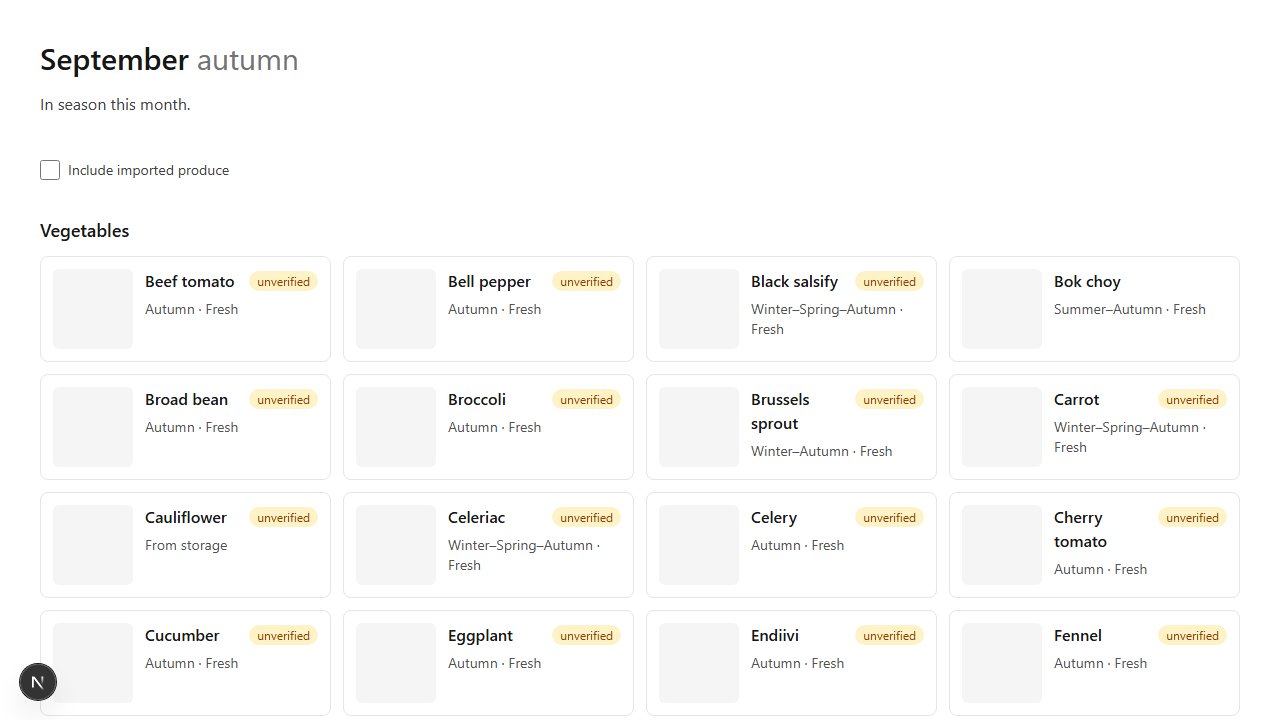
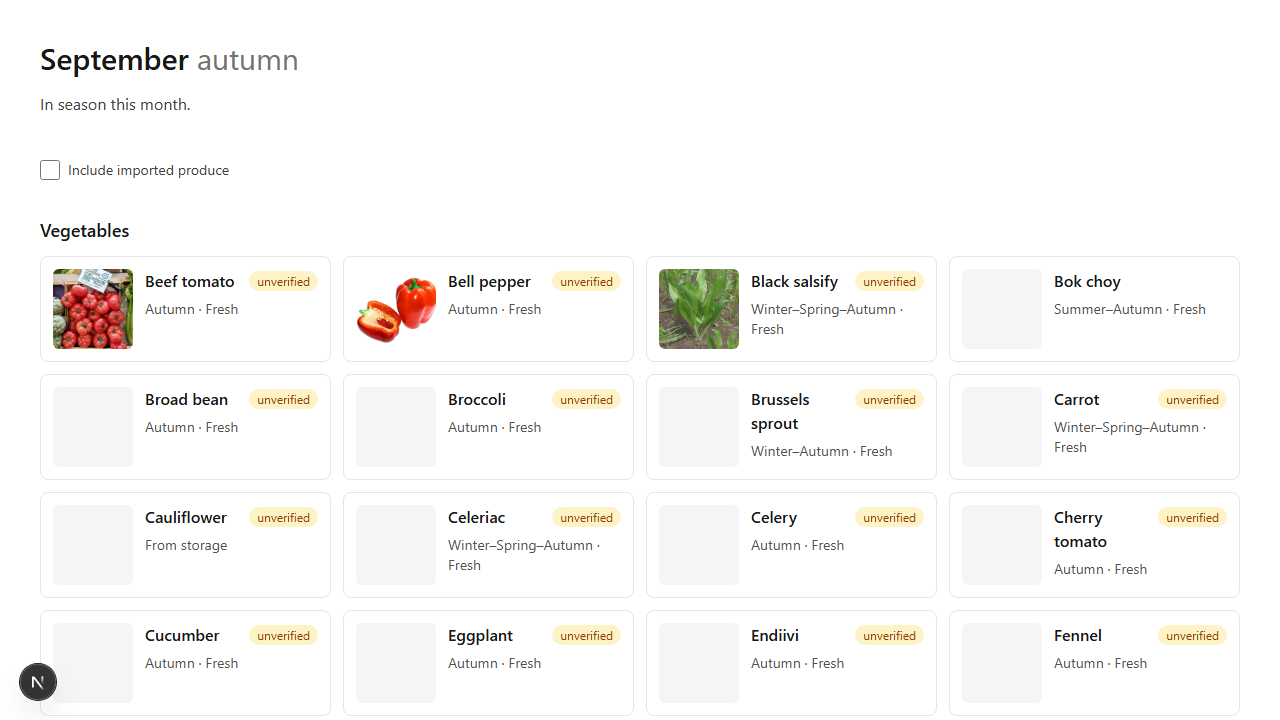
Show the first nine approved photos on the cards (issue 010, part way)
Downloads the nine photos Tia approved from the contact sheet on 2026-09-11,
which had been sitting as decisions with nothing acting on them, and records
each one's author, licence and source URL on its ingredient. The credits page
lists them instead of saying "No photos yet".

Also makes the card able to show a photo at all. HomeIngredient had no image
field, so an approved photo would still have rendered as a grey square. The
placeholder stays for the ~87 ingredients still undecided, so the layout does
not move as photos arrive.

One thing this caught: download-approved.mjs writes `file` as a root-relative
URL, "/images/ingredients/apple.jpg", while lib/types.ts and docs/PLAN.md both
described it as a bare filename. Nothing had ever rendered an image, so the
contradiction was invisible, and the first version of the card built the path a
second time and broke every photo. The script's format wins, being what is in
the data and what a src wants; the type and the plan now say so.

Issue 010 keeps its unticked boxes and gains a note on where to resume. Two of
the nine are worth repicking: beef-tomato is a market stall with a price sign,
and black-salsify shows foliage rather than the root. Both read fine on the
contact sheet at full size and poorly at 64 pixels, which is the size that
matters.

Changed region(s): [[0.5, 0.3667, 0.5938, 0.4889], [0.0312, 0.3667, 0.125, 0.4889], [0.2812, 0.3667, 0.3438, 0.4889]]

diff --git a/components/ProduceGrid.tsx b/components/ProduceGrid.tsx
@@ -133,7 +133,19 @@ function IngredientCard({
           to carry the season facts; the photo is how you recognise the
           ingredient without reading, which a small square does as well as a
           large one and in a third of the height. */}
-      <div className="h-16 w-16 shrink-0 rounded-md bg-neutral-100 sm:h-20 sm:w-20" aria-hidden />
+      {ingredient.image ? (
+        // eslint-disable-next-line @next/next/no-img-element -- a fixed-size local
+        // thumbnail, already downloaded at card width; next/image would add a
+        // round trip and a config for no gain.
+        <img
+          src={ingredient.image.file}
+          alt=""
+          loading="lazy"
+          className="h-16 w-16 shrink-0 rounded-md bg-neutral-100 object-cover sm:h-20 sm:w-20"
+        />
+      ) : (
+        <div className="h-16 w-16 shrink-0 rounded-md bg-neutral-100 sm:h-20 sm:w-20" aria-hidden />
+      )}
       <div className="min-w-0 flex-1">
         <div className="flex items-start justify-between gap-2">
           <span className="font-medium">{ingredient.name}</span>

diff --git a/app/page.tsx b/app/page.tsx
@@ -46,6 +46,13 @@ export default function HomePage() {
     freshMonths: ingredient.availability.domestic?.freshMonths ?? [],
     storageMonths: ingredient.availability.domestic?.storageMonths ?? [],
     importedMonths: ingredient.availability.imported?.months ?? [],
+    image: ingredient.image
+      ? {
+          file: ingredient.image.file,
+          author: ingredient.image.author,
+          license: ingredient.image.license,
+        }
+      : undefined,
     notes: ingredient.notes?.en || undefined,
     warning: ingredient.warning?.en || undefined,
     similar: sortByName(

diff --git a/components/types.ts b/components/types.ts
@@ -33,6 +33,12 @@ export type HomeIngredient = {
   /** English prose for now; the fi fields fill at the localization step. */
   notes?: string
   warning?: string
+  /**
+   * The approved photo, if this ingredient has one yet. Undefined is the
+   * ordinary case for now: the card draws its placeholder and the layout does
+   * not move when the photo arrives.
+   */
+  image?: { file: string; author: string; license: string }
   /** Ingredients that can stand in for this one, already resolved to names. */
   similar: { id: string; name: string }[]
   recipes: PanelRecipe[]

diff --git a/lib/types.ts b/lib/types.ts
@@ -29,7 +29,7 @@ export const SEASONAL_CATEGORIES = [
 export type Month = 1 | 2 | 3 | 4 | 5 | 6 | 7 | 8 | 9 | 10 | 11 | 12
 
 export type IngredientImage = {
-  /** Path under public/images/ingredients/ */
+  /** Root-relative URL, e.g. "/images/ingredients/apple.jpg", ready to use in src. */
   file: string
   author: string
   /** "CC BY-SA 4.0", "public domain" */

diff --git a/issues/010-ingredient-photos.md b/issues/010-ingredient-photos.md
@@ -27,6 +27,37 @@ earlier decision that nothing enters the project unreviewed.
 - [ ] Approved images have complete `IngredientImage` data on their ingredient
 - [ ] An attribution list is renderable somewhere in the app
 
+## Where this got to
+
+Paused on 2026-09-17, part way through. What exists:
+
+- 9 ingredients decided and downloaded: apple, avocado, banana, bearberry,
+  beef-tomato, bell-pepper, black-salsify, black-trumpet, blackberry. Their
+  attribution is on the ingredient, the files are in
+  `public/images/ingredients/`, and `/credits` lists them.
+- Around 87 September ingredients still have no decision.
+- `aronia` was reviewed and had no usable candidate. It stays without a photo
+  unless a later search finds one.
+
+Two of the nine do not work at card size, and are worth repicking. Both were
+approved from the contact sheet, where they are shown much larger, so this only
+became visible once cards rendered photos:
+
+- `beef-tomato`: a market stall with a price sign in shot. Reads as a shop.
+- `black-salsify`: foliage in a field. The black root, which is the part cooked,
+  is not visible.
+
+To carry on:
+
+1. `node scripts/photo-candidates.mjs` and wait. Wikimedia rate-limits hard,
+   around 50 seconds of waiting per batch, so a full run is over an hour.
+2. `npm run dev`, open `/photos`, approve.
+3. `node scripts/download-approved.mjs`.
+
+Worth fixing first: `photo-candidates.mjs` writes its output only once, at the
+very end, so a run that dies at ingredient 90 loses all 90. Writing after each
+ingredient would make the run resumable, which matters a lot at this speed.
+
 ## Tests
 
 None.

diff --git a/docs/PLAN.md b/docs/PLAN.md
@@ -122,7 +122,7 @@ type Ingredient = {
 }
 
 type IngredientImage = {
-  file: string                   // path under public/images/ingredients/
+  file: string                   // root-relative URL, "/images/ingredients/apple.jpg"
   author: string
   license: string                // "CC BY-SA 4.0", "public domain"
   sourceUrl: string
